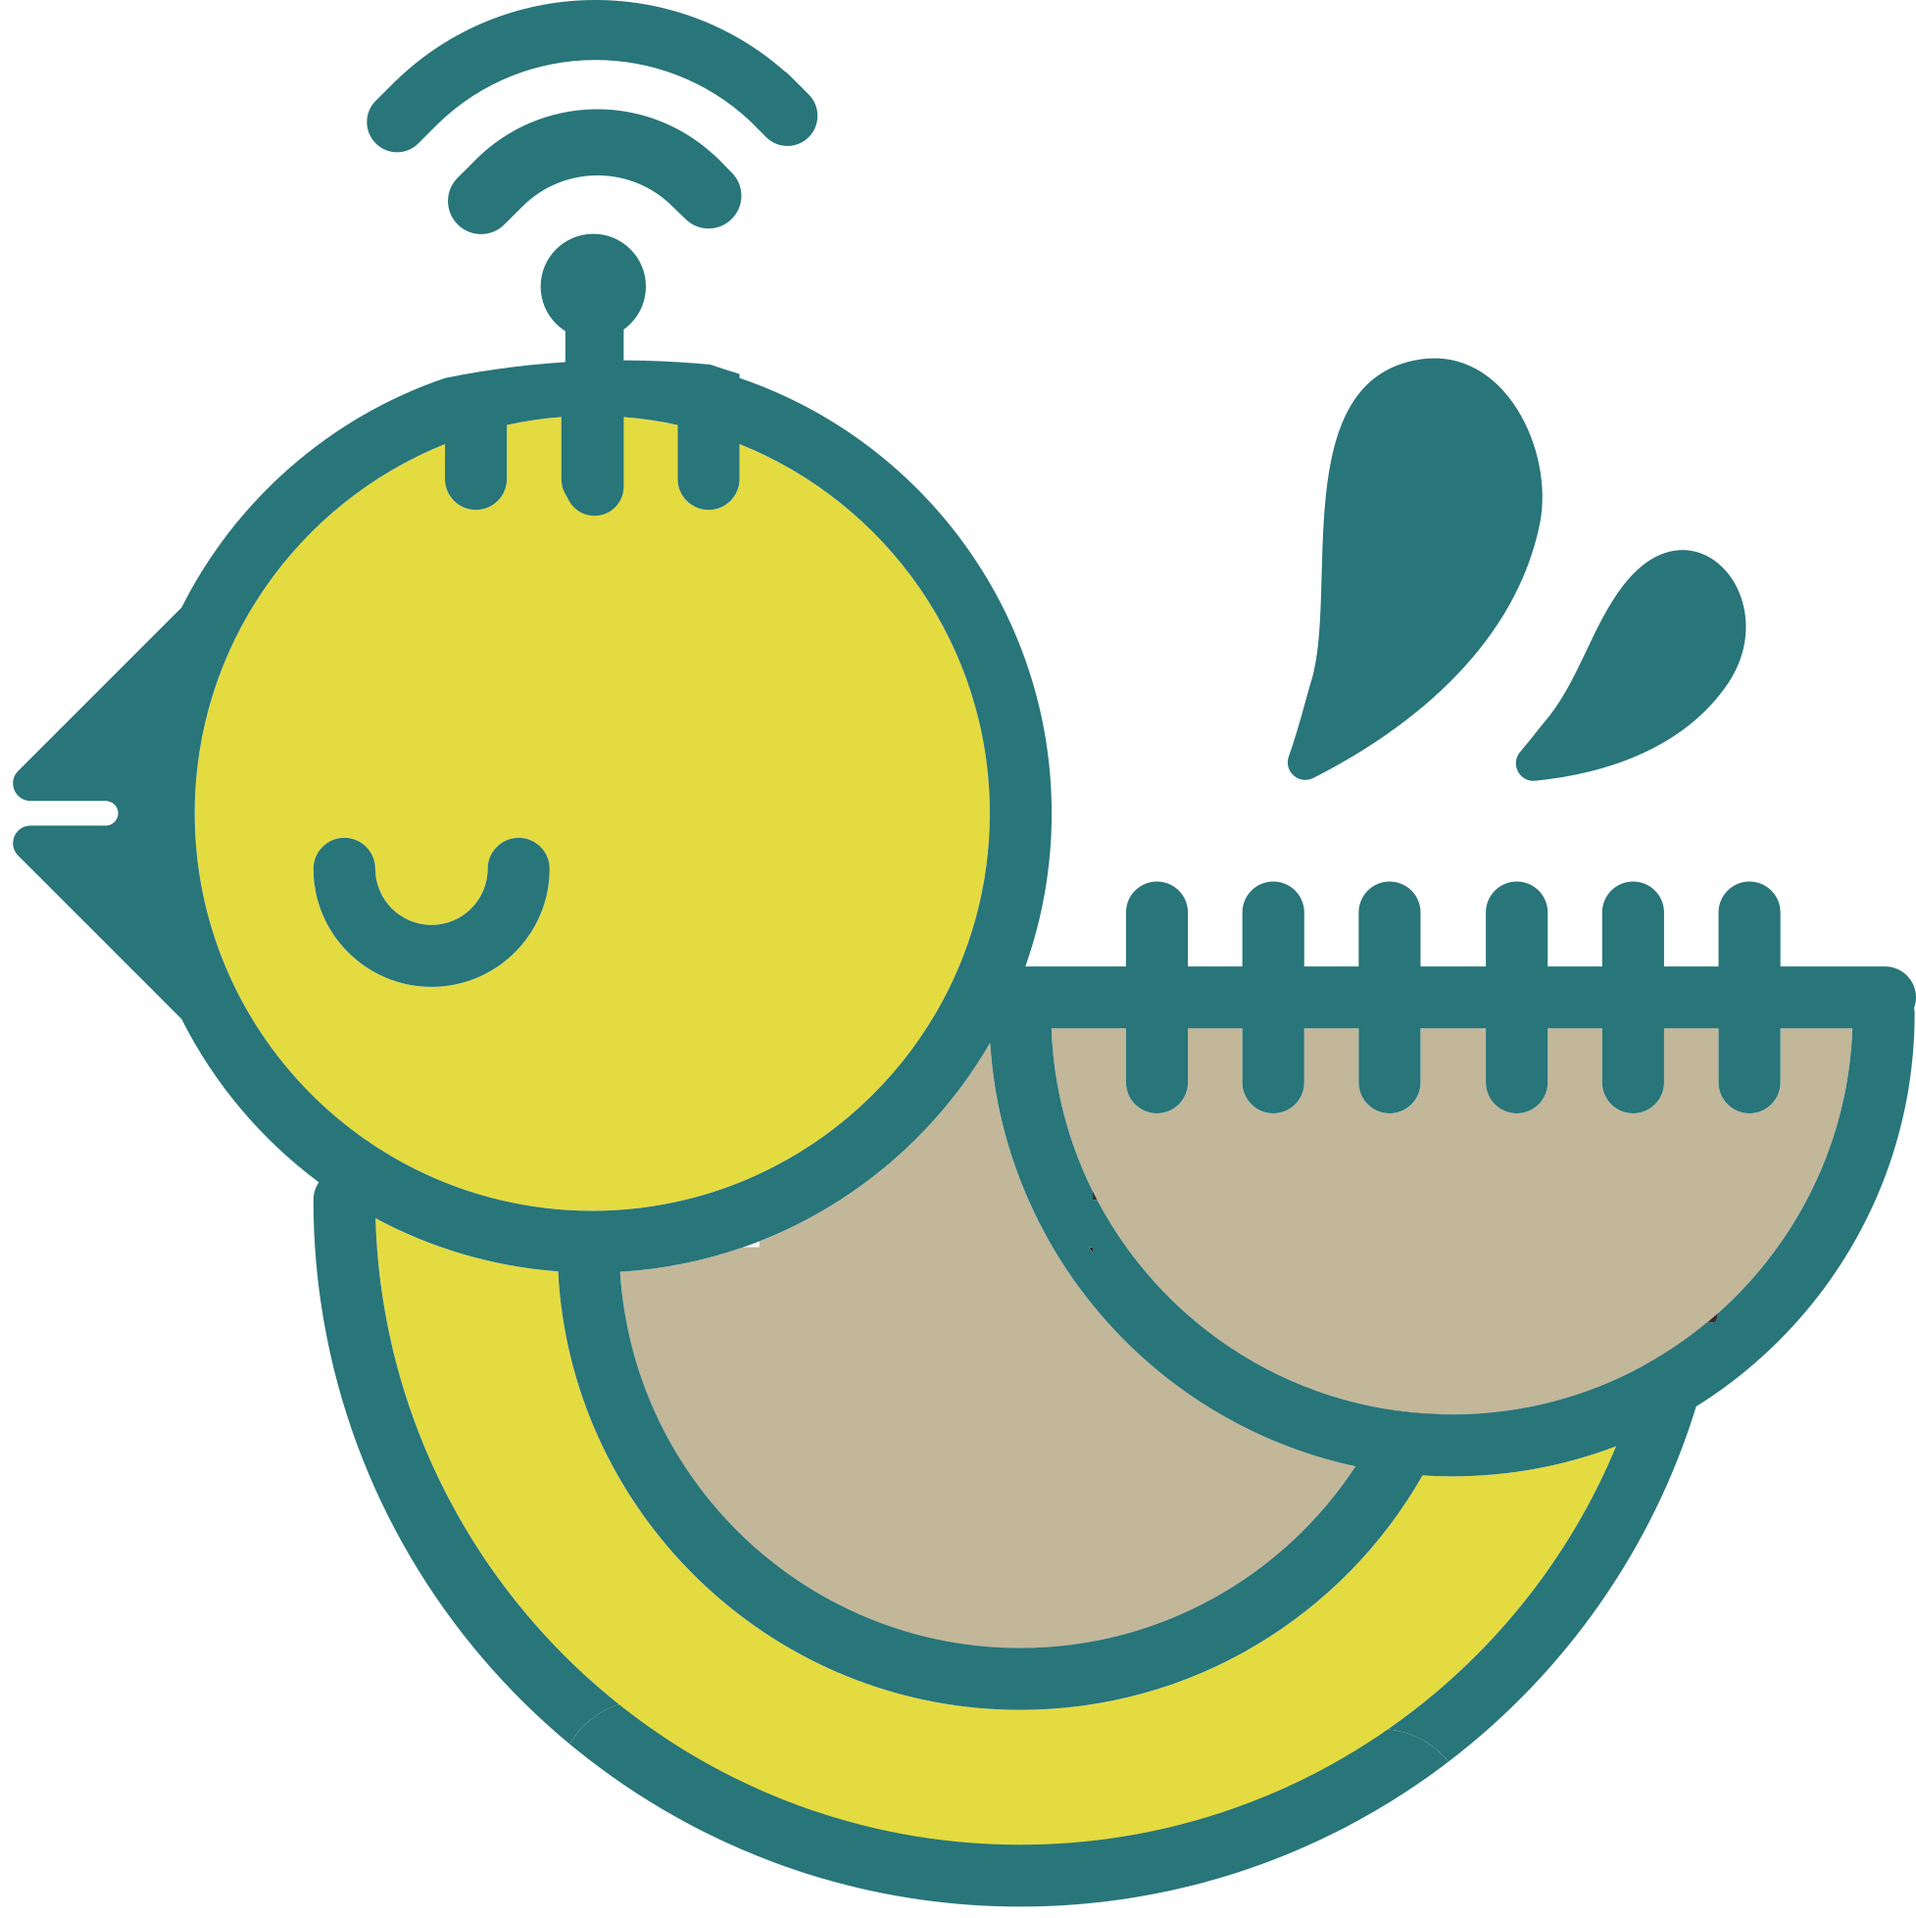
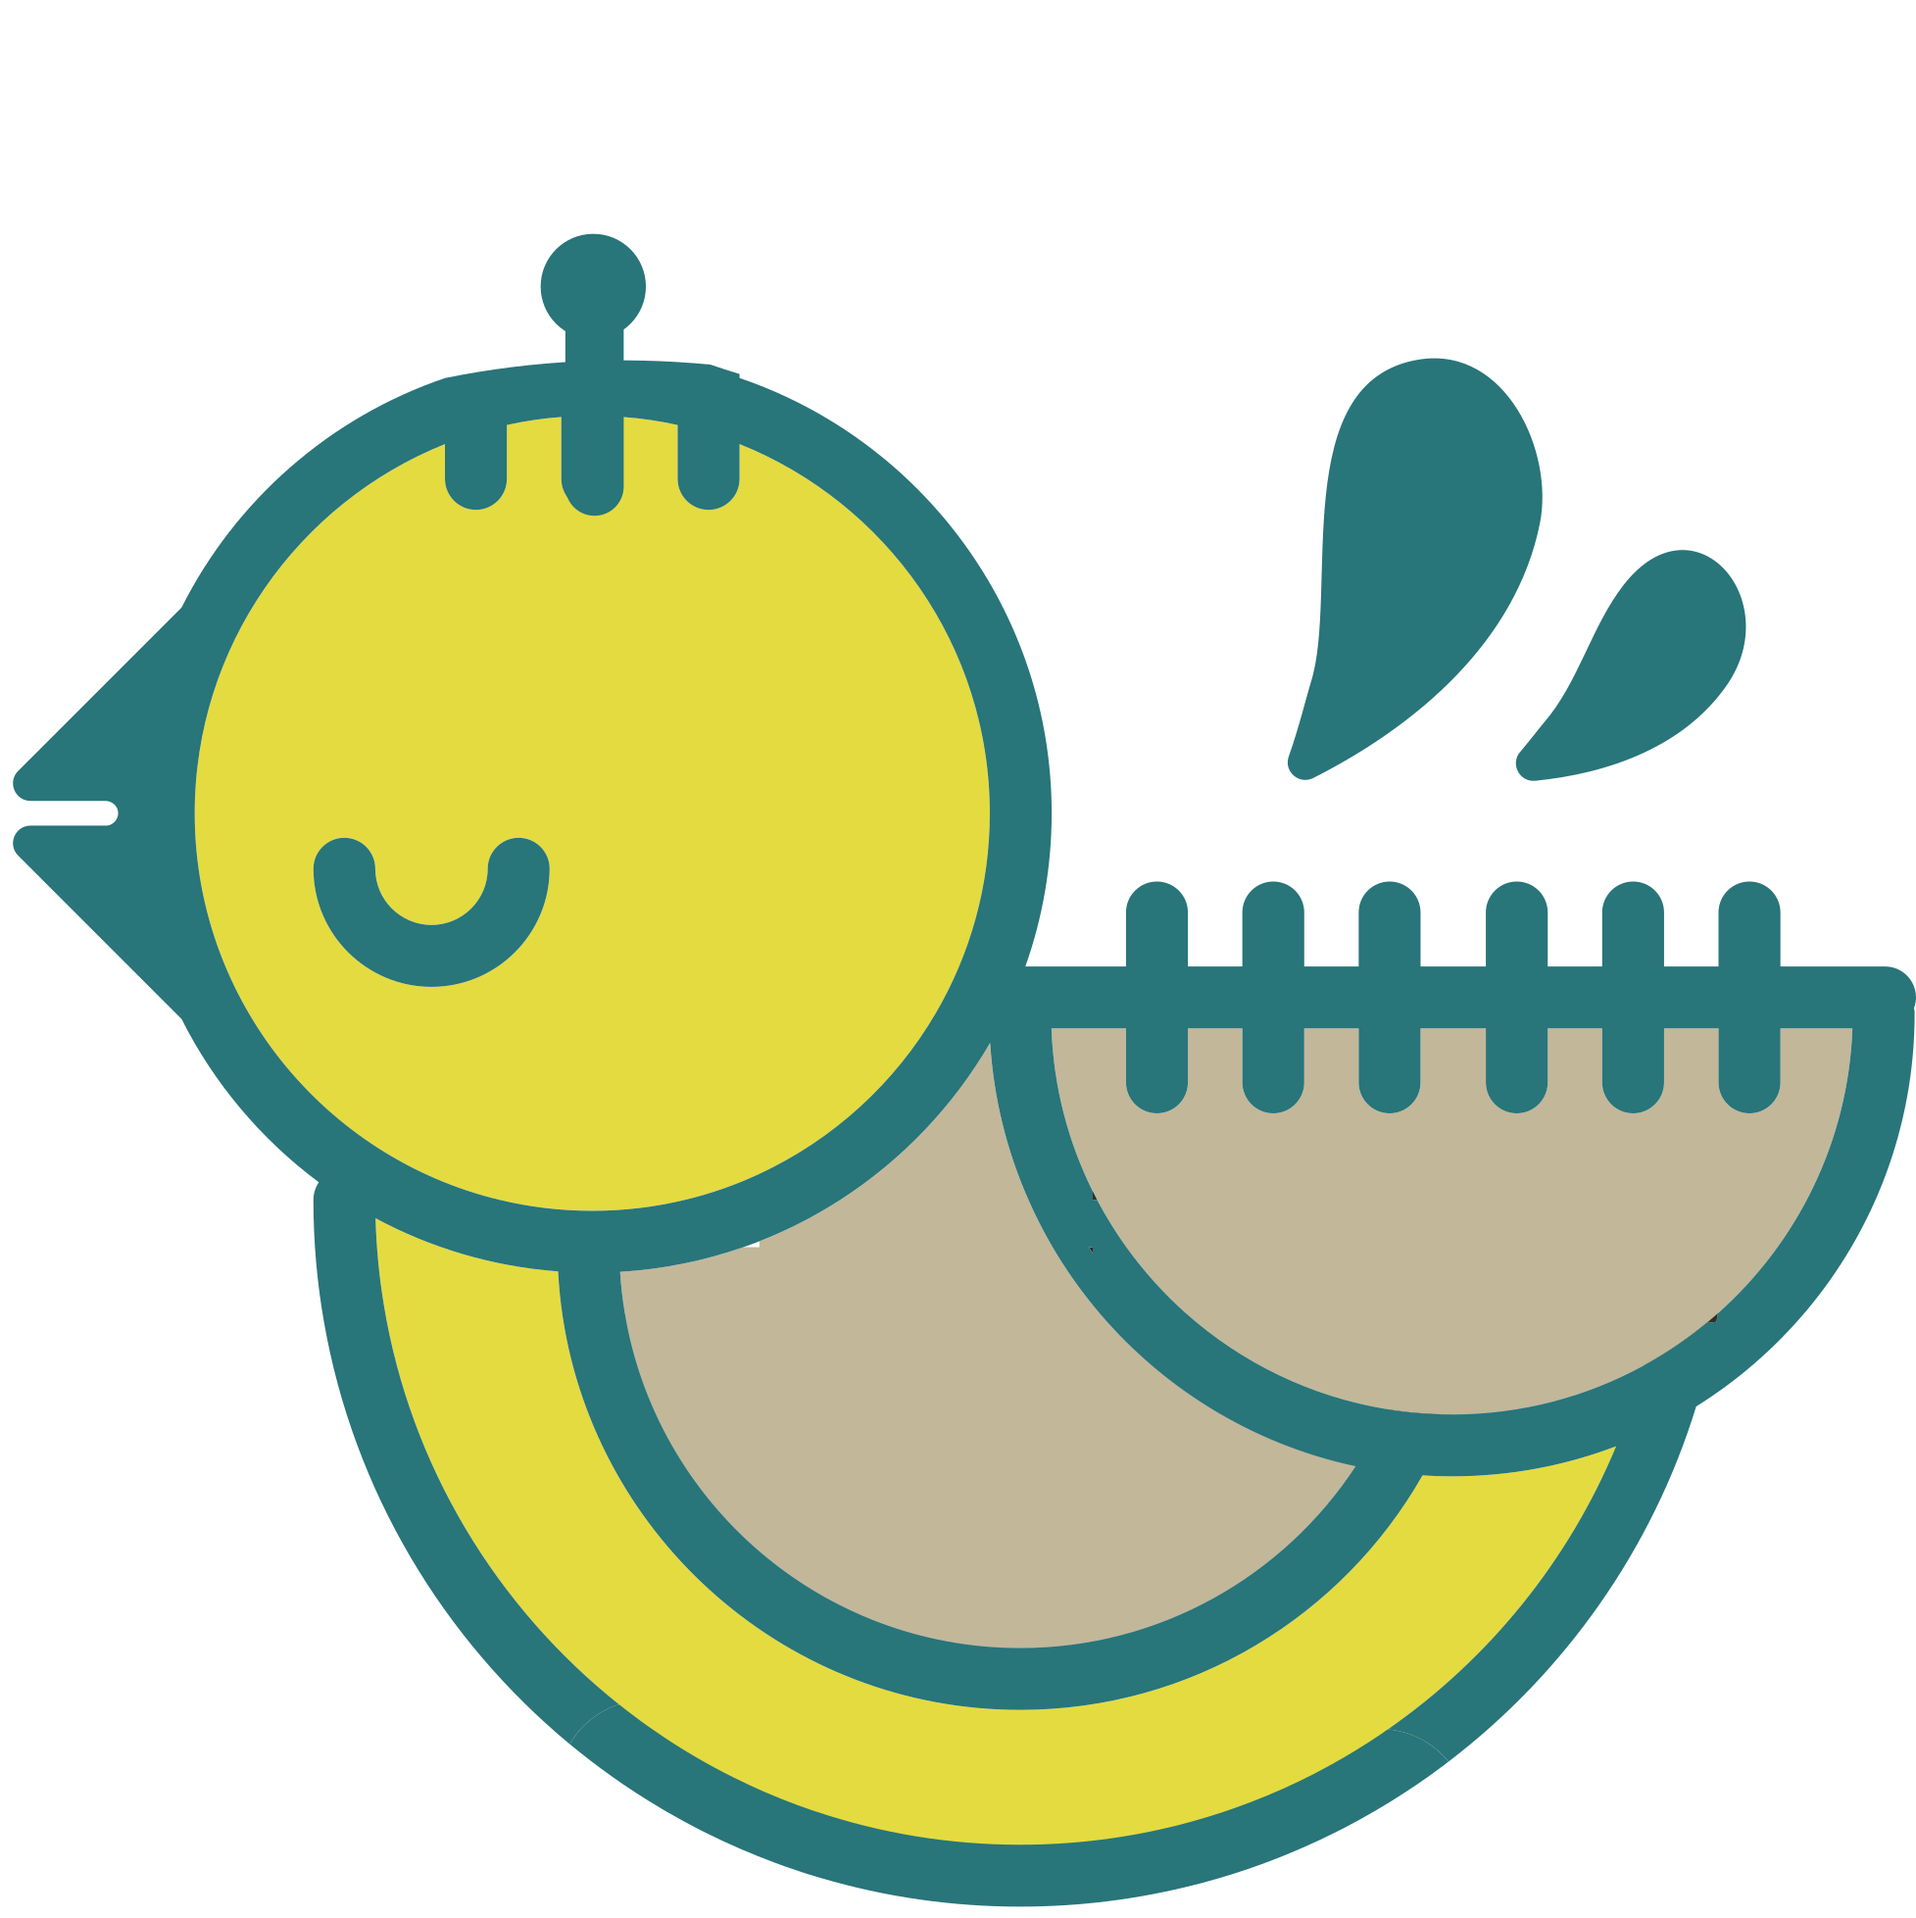
アンテナをアニメーション

Changed region(s): [[0.1872, 0.0, 0.4368, 0.1247]]

diff --git a/code/Windows/AigamoControl/MainPage.xaml b/code/Windows/AigamoControl/MainPage.xaml
@@ -11,10 +11,15 @@
             <DoubleAnimation Duration="0:0:1" To="-360" Storyboard.TargetProperty="(UIElement.RenderTransform).(CompositeTransform.Rotation)" Storyboard.TargetName="ImageFrontFoot" d:IsOptimized="True"/>
             <DoubleAnimation Duration="0:0:1" To="-360" Storyboard.TargetProperty="(UIElement.RenderTransform).(CompositeTransform.Rotation)" Storyboard.TargetName="ImageRearFoot" d:IsOptimized="True"/>
         </Storyboard>
+        <Storyboard x:Name="Storyboard1" RepeatBehavior="Forever">
+            <DoubleAnimation Duration="0:0:1" To="1" Storyboard.TargetProperty="(UIElement.RenderTransform).(CompositeTransform.ScaleX)" Storyboard.TargetName="ImageSignal"/>
+            <DoubleAnimation Duration="0:0:1" To="1" Storyboard.TargetProperty="(UIElement.RenderTransform).(CompositeTransform.ScaleY)" Storyboard.TargetName="ImageSignal"/>
+            <DoubleAnimation Duration="0:0:1" To="15" Storyboard.TargetProperty="(UIElement.RenderTransform).(CompositeTransform.TranslateY)" Storyboard.TargetName="ImageSignal"/>
+        </Storyboard>
     </Page.Resources>
 
     <StackPanel Background="{ThemeResource ApplicationPageBackgroundThemeBrush}">
-        <Canvas Width="200" Height="200">
+        <Canvas Width="200" Height="200" Margin="20">
             <Image Source="aigamo_body.PNG" Canvas.Left="10" Height="180"/>
             <Image x:Name="ImageFrontFoot" Source="aigamo_foot.PNG" Canvas.Left="50" Canvas.Top="150" Height="40" Width="40">
                 <Image.RenderTransform>
@@ -24,6 +29,11 @@
             <Image x:Name="ImageRearFoot" Source="aigamo_foot.PNG" Canvas.Left="120" Canvas.Top="150" Height="40" Width="40">
                 <Image.RenderTransform>
                     <CompositeTransform CenterX="20" CenterY="20"/>
+                </Image.RenderTransform>
+            </Image>
+            <Image x:Name="ImageSignal" Source="aigamo_signal.PNG" Canvas.Left="46" Canvas.Top="-30" Height="40" Width="40">
+                <Image.RenderTransform>
+                    <CompositeTransform CenterX="20" CenterY="20" ScaleX="0.1" ScaleY="0.1" TranslateY="35"/>
                 </Image.RenderTransform>
             </Image>
         </Canvas>

diff --git a/code/Windows/AigamoControl/MainPage.xaml.cs b/code/Windows/AigamoControl/MainPage.xaml.cs
@@ -11,6 +11,7 @@ using Windows.UI.Xaml.Controls.Primitives;
 using Windows.UI.Xaml.Data;
 using Windows.UI.Xaml.Input;
 using Windows.UI.Xaml.Media;
+using Windows.UI.Xaml.Media.Imaging;
 using Windows.UI.Xaml.Navigation;
 
 // 空白ページのアイテム テンプレートについては、http://go.microsoft.com/fwlink/?LinkId=402352&clcid=0x409 を参照してください
@@ -29,7 +30,13 @@ namespace AigamoControl
 
         private void Page_Loaded(object sender, RoutedEventArgs e)
         {
+            // 画質が落ちるのを防ぐ措置
+            var bitmapSignal = ImageSignal.Source as BitmapImage;
+            bitmapSignal.DecodePixelWidth = 477;
+            bitmapSignal.DecodePixelHeight = 164;
+
             StoryboardFeet.Begin();
+            Storyboard1.Begin();
         }
 
         private void ForwardLeft_Click(object sender, RoutedEventArgs e)
